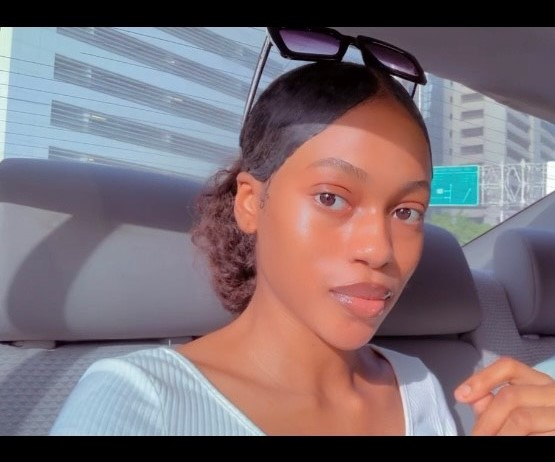
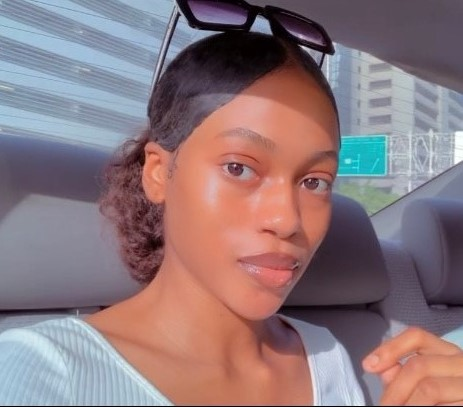
Profile edit

diff --git a/main.css b/main.css
@@ -137,14 +137,12 @@ ul a:hover {
   width: 40rem;
 }
 
-.showcase-img img {
-  background: url(../img/img1.jpg) no-repeat center center/cover;
+.about-img img {
   margin-top: 10rem;
   margin-bottom: 2rem;
-  width: 440px;
-  border-radius: 8px;
+  width: 350px;
+  border-radius: 50%;
   box-shadow: 3px 3px 20px 3px #a39089;
-  /* height: 40rem; */
 }
 
 #about .container {
@@ -158,10 +156,6 @@ ul a:hover {
   width: 40rem;
 }
 
-.about-img img {
-  width: 200px;
-  border-radius: 50%;
-}
 
 /* work section */
 #work {

diff --git a/index.html b/index.html
@@ -40,17 +40,16 @@
           <br />
           <br />
           <a href="mailto:damilolaonitiju@gmail.com" class="btn">Hire Me</a>
-        </div>
-
-        <div class="showcase-img">
-          <img src="./img-8.jpeg" alt="Image 1" />
-        </div>
       </div>
     </header>
 
     <!-- about me section -->
     <section id="about">
       <div class="container">
+        <div class="about-img">
+          <img src="./img-8.jpeg" alt="Image 1" />
+</div>
+
         <div class="about-text">
           
 
